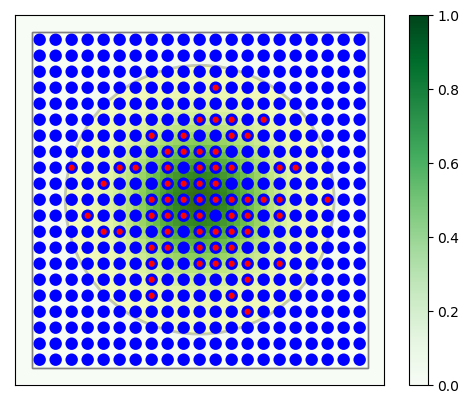
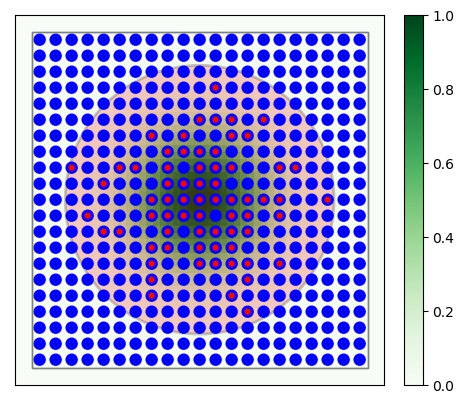
Red color for mask

diff --git a/doc/topology/user_manual_scripts/layers.py b/doc/topology/user_manual_scripts/layers.py
@@ -321,7 +321,7 @@ fig = nest.PlotLayer(l, nodesize=80)
 ctr = nest.FindCenterElement(l)
 nest.PlotTargets(ctr, l, fig=fig,
                  mask=conndict['mask'], probability_parameter=probability_param,
-                 src_size=250, tgt_color='red', tgt_size=20,
+                 src_size=250, tgt_color='red', tgt_size=20, mask_color='red',
                  probability_cmap='Greens')
 #{ end #}
 plt.savefig('../user_manual_figures/vislayer.png', bbox_inches='tight')
